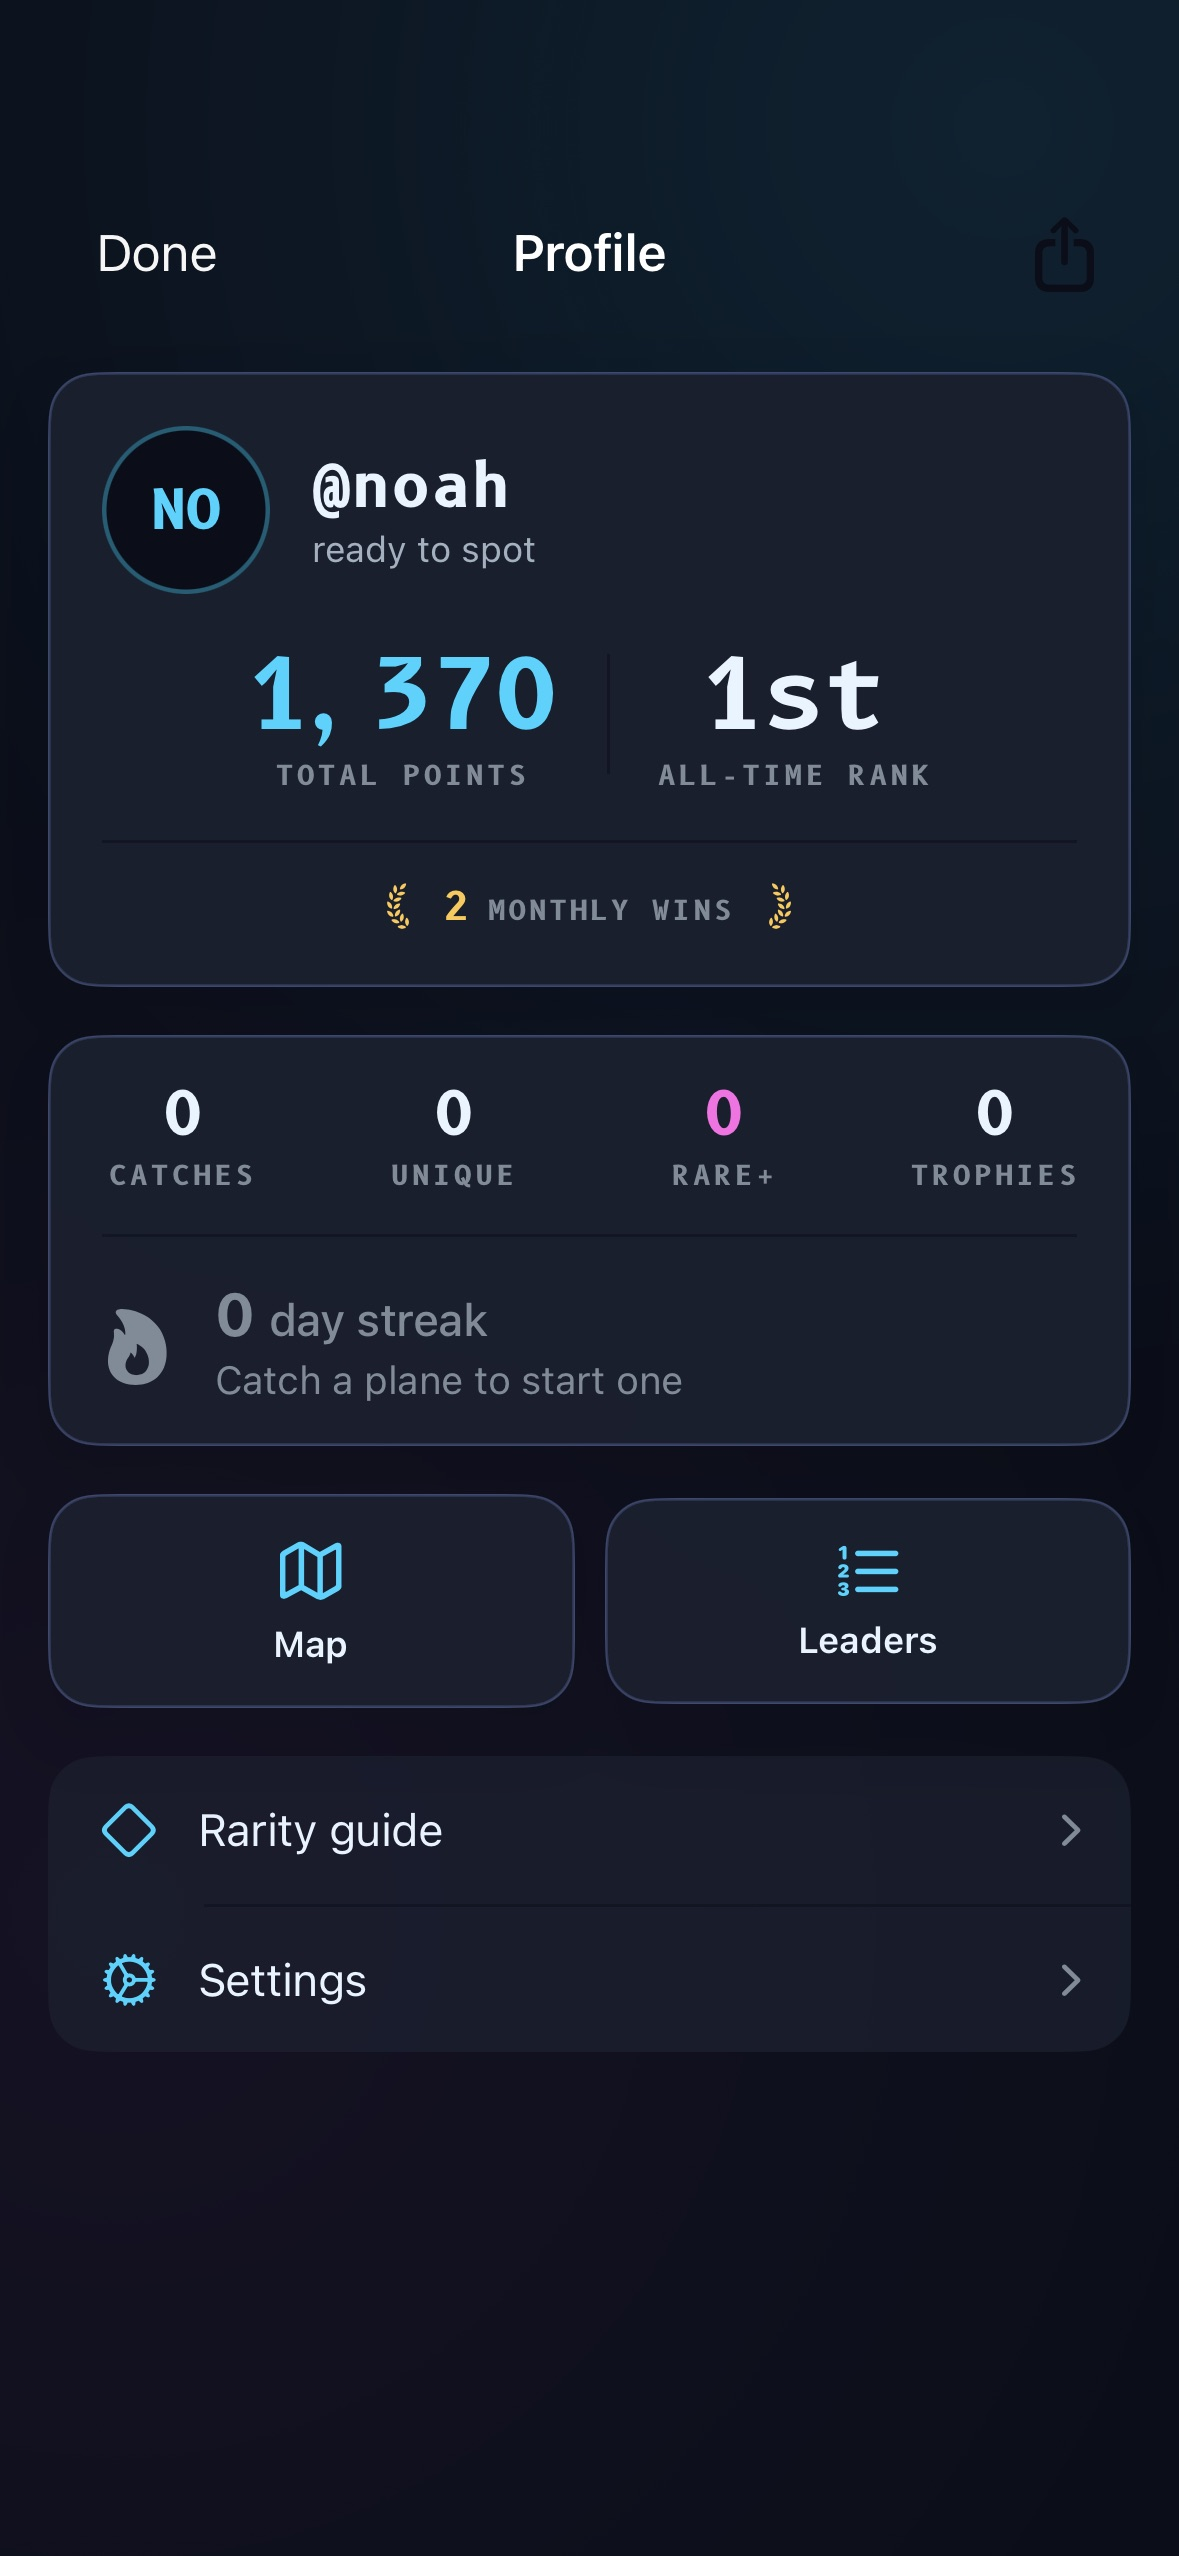
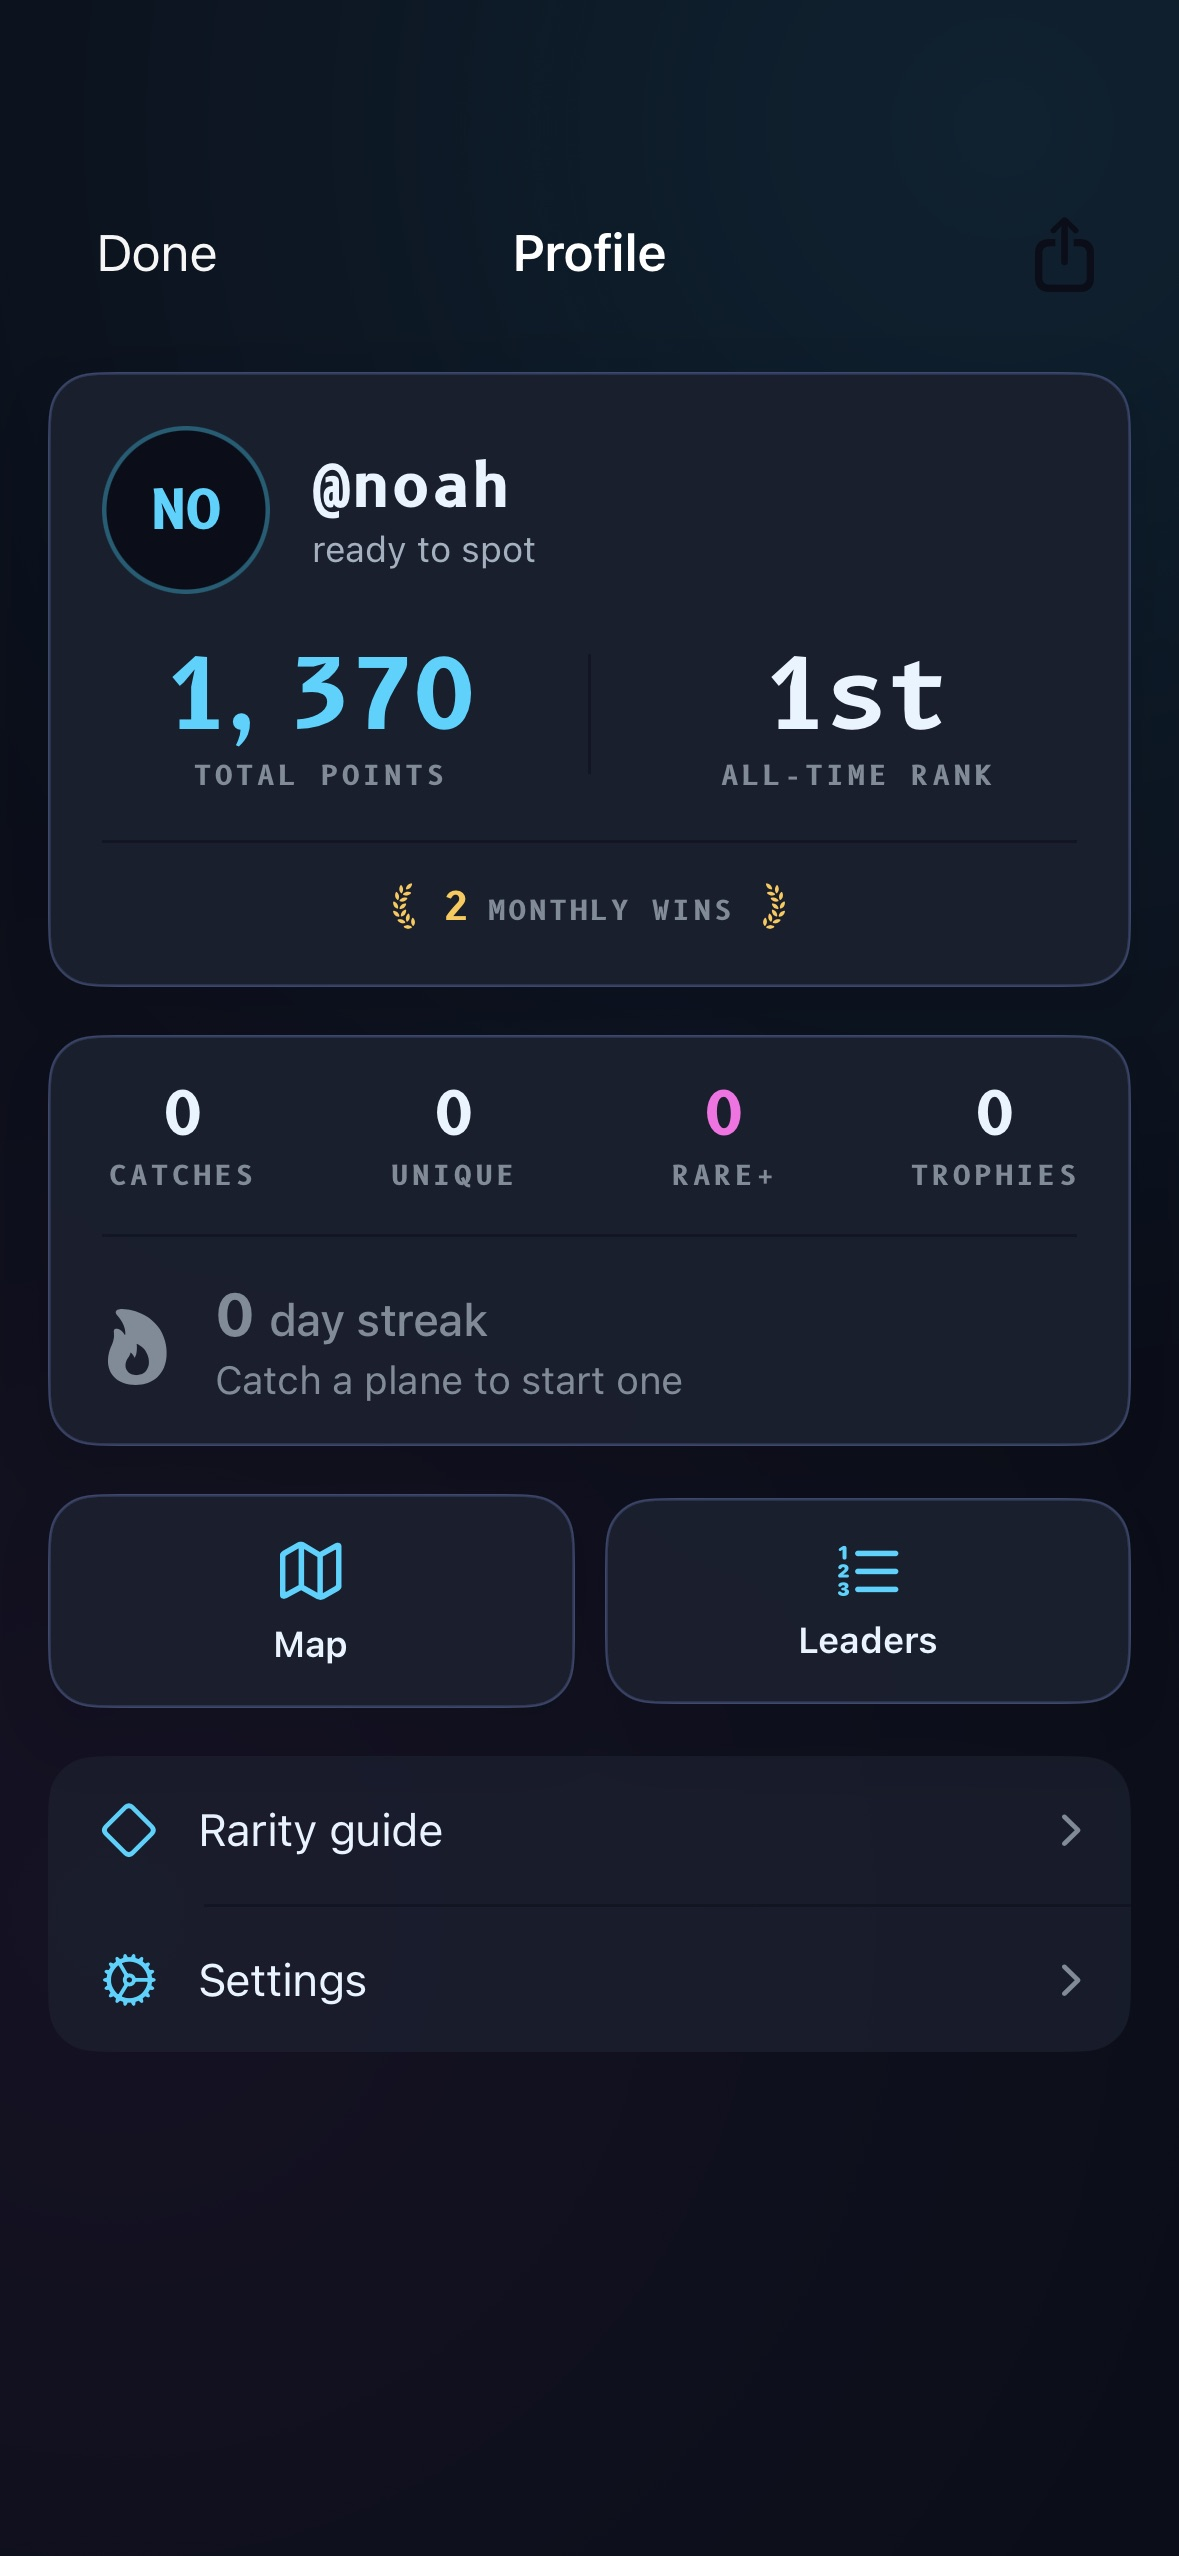
Align Profile leaderboard grid

diff --git a/ios/Tailspot/Tailspot/ProfileScreen.swift b/ios/Tailspot/Tailspot/ProfileScreen.swift
@@ -298,7 +298,7 @@ struct ProfileScreen: View {
                 }
                 Spacer()
             }
-            HStack(spacing: 16) {
+            HStack(spacing: 0) {
                 VStack(spacing: 2) {
                     Text(displayPoints.formatted(.number))
                         .font(Brand.Font.mono(size: 32, weight: .heavy, relativeTo: .title2))
@@ -311,10 +311,12 @@ struct ProfileScreen: View {
                         .tracking(1.2)
                         .foregroundStyle(Brand.Color.textTertiary)
                 }
+                .frame(maxWidth: .infinity)
                 .accessibilityElement(children: .combine)
                 Rectangle()
                     .fill(Brand.Color.bgPrimary.opacity(0.55))
                     .frame(width: 1, height: 40)
+                    .padding(.horizontal, 16)
                 VStack(spacing: 2) {
                     Text(rankLabel)
                         .font(Brand.Font.mono(size: 32, weight: .heavy, relativeTo: .title2))
@@ -327,6 +329,7 @@ struct ProfileScreen: View {
                         .tracking(1.2)
                         .foregroundStyle(Brand.Color.textTertiary)
                 }
+                .frame(maxWidth: .infinity)
                 .accessibilityElement(children: .combine)
             }
             if hasChampionWins {
@@ -350,33 +353,47 @@ struct ProfileScreen: View {
     /// crowns are supporting accolades, not separate cards competing with the
     /// all-time points and rank. A zero cache value means none or never fetched,
     /// so that period stays absent rather than presenting a possibly-false zero.
+    @ViewBuilder
     private var championSummary: some View {
-        HStack(spacing: 10) {
-            Image(systemName: "laurel.leading")
-                .font(.system(size: 14, weight: .semibold))
-                .foregroundStyle(Brand.Color.podiumGold)
-                .accessibilityHidden(true)
+        if cachedWeeklyWins >= 1 && cachedMonthlyWins >= 1 {
             HStack(spacing: 0) {
-                if cachedWeeklyWins >= 1 {
+                HStack(spacing: 8) {
+                    championLaurel("laurel.leading")
                     championSummaryCell(wins: cachedWeeklyWins, period: "WEEKLY")
                 }
-                if cachedWeeklyWins >= 1 && cachedMonthlyWins >= 1 {
-                    Rectangle()
-                        .fill(Brand.Color.bgPrimary.opacity(0.55))
-                        .frame(width: 1, height: 28)
-                        .padding(.horizontal, 10)
+                .frame(maxWidth: .infinity)
+                Rectangle()
+                    .fill(Brand.Color.bgPrimary.opacity(0.55))
+                    .frame(width: 1, height: 28)
+                    .padding(.horizontal, 10)
+                HStack(spacing: 8) {
+                    championSummaryCell(wins: cachedMonthlyWins, period: "MONTHLY")
+                    championLaurel("laurel.trailing")
                 }
-                if cachedMonthlyWins >= 1 {
+                .frame(maxWidth: .infinity)
+            }
+            .accessibilityElement(children: .ignore)
+            .accessibilityLabel(championSummaryAccessibilityLabel)
+        } else {
+            HStack(spacing: 8) {
+                championLaurel("laurel.leading")
+                if cachedWeeklyWins >= 1 {
+                    championSummaryCell(wins: cachedWeeklyWins, period: "WEEKLY")
+                } else if cachedMonthlyWins >= 1 {
                     championSummaryCell(wins: cachedMonthlyWins, period: "MONTHLY")
                 }
+                championLaurel("laurel.trailing")
             }
-            Image(systemName: "laurel.trailing")
-                .font(.system(size: 14, weight: .semibold))
-                .foregroundStyle(Brand.Color.podiumGold)
-                .accessibilityHidden(true)
+            .accessibilityElement(children: .ignore)
+            .accessibilityLabel(championSummaryAccessibilityLabel)
         }
-        .accessibilityElement(children: .ignore)
-        .accessibilityLabel(championSummaryAccessibilityLabel)
+    }
+
+    private func championLaurel(_ systemName: String) -> some View {
+        Image(systemName: systemName)
+            .font(.system(size: 14, weight: .semibold))
+            .foregroundStyle(Brand.Color.podiumGold)
+            .accessibilityHidden(true)
     }
 
     @ViewBuilder
